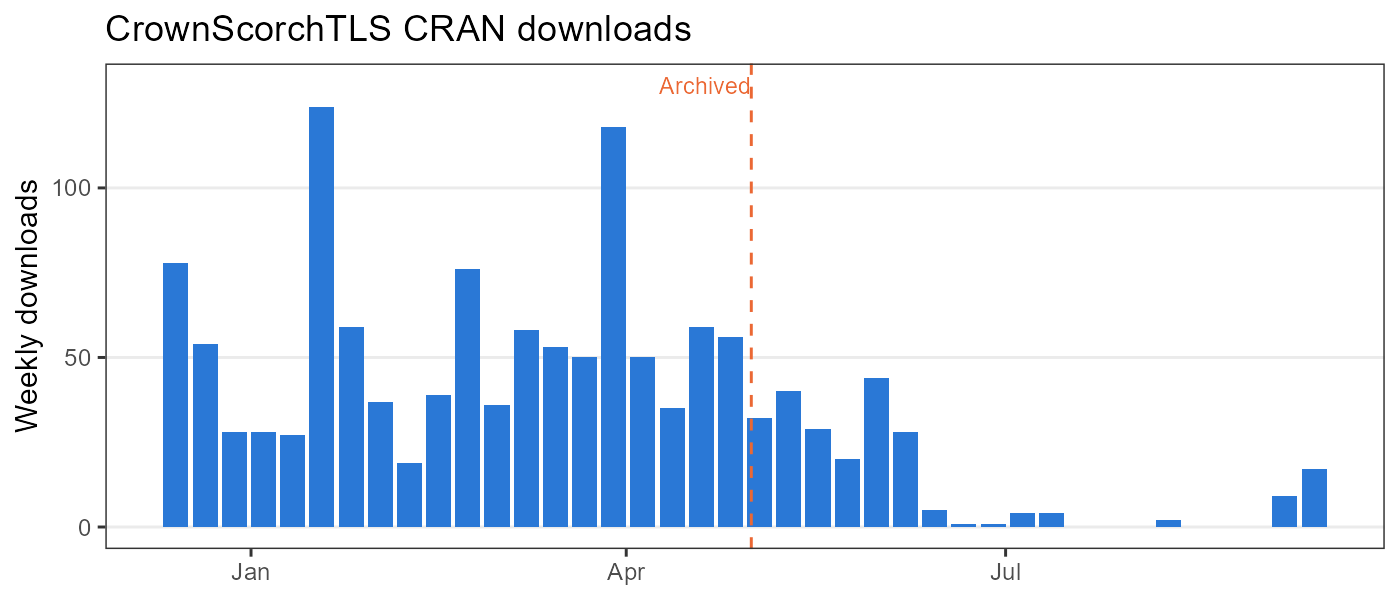
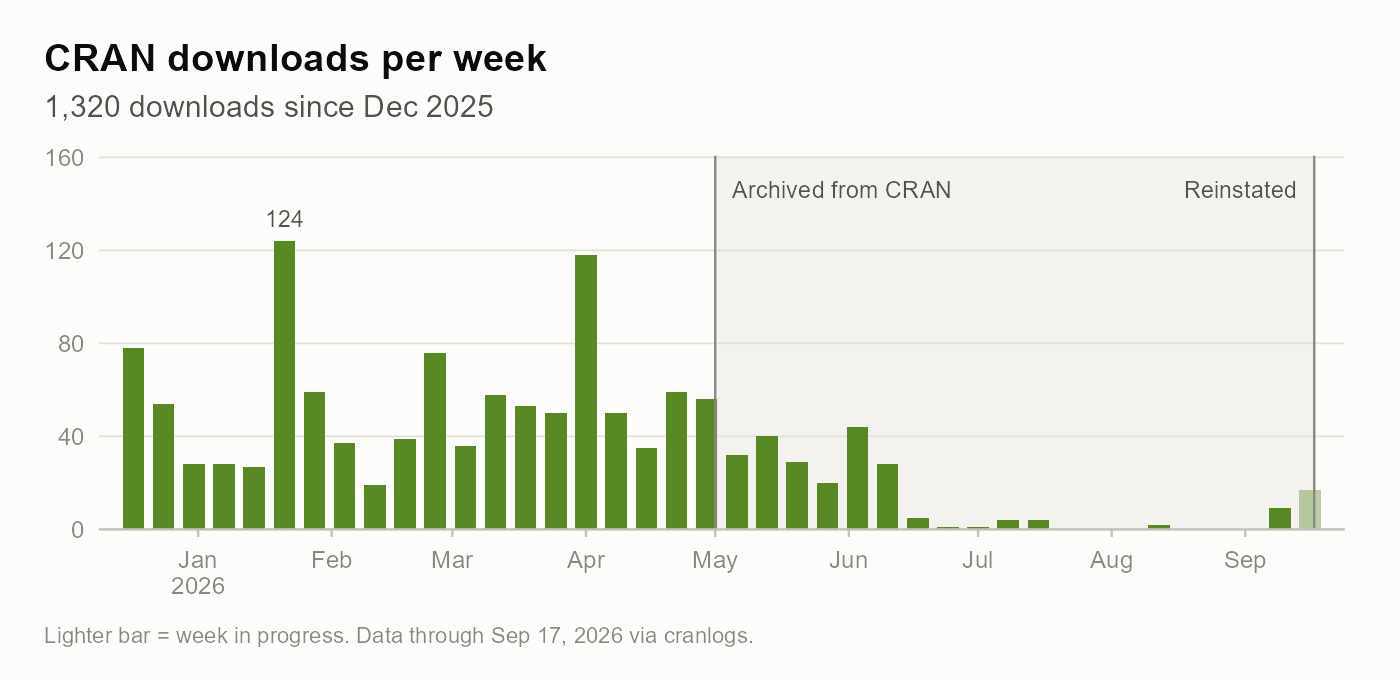
Restyle downloads figure like tReeTraits and move it to the README bottom
- dev.R: zero-filled weekly bars, shaded archive gap (2026-05-01 to
  2026-09-17 reinstatement), peak label, in-progress week shading
- README: move figure to a Downloads section at the end
- Workflow: git pull --rebase before push; install scales explicitly [skip ci]

diff --git a/README.md b/README.md
@@ -7,10 +7,6 @@
 
 This `R` package contains functions to predict crown scorch from Terrestrial Lidar scans acquired with a RIEGL vz400i, following methods in [Cannon et al. 2025](https://doi.org/10.1186/s42408-025-00420-0)
 
-<img src="man/figures/downloads.png" width="500"/>
-
-Weekly CRAN downloads (source: [cranlogs](https://cranlogs.r-pkg.org/); regenerate with `dev.R`).
-
 Citation
 
 Cannon, Jeffery B., Nicole E. Zampieri, Andrew W. Whelan, Timothy M. Shearman, Andrew J. Sánchez Meador, and J. Morgan Varner. “Terrestrial Lidar Scanning Provides Efficient Measurements of Fire-Caused Crown Scorch in Longleaf Pine.” **Fire Ecology** 21, no. 1 (2025): 71. <https://doi.org/10.1186/s42408-025-00420-0>.
@@ -274,3 +270,11 @@ scorch = predict_scorch(new_las, model = model.RF) #model = NULL will use defaul
 print(scorch)
 
 ```
+
+------------------------------------------------------------------------
+
+## 📈 Downloads
+
+<img src="man/figures/downloads.png" width="650"/>
+
+Updated weekly from [cranlogs](https://cranlogs.r-pkg.org/) by a GitHub Action (`dev.R`).
